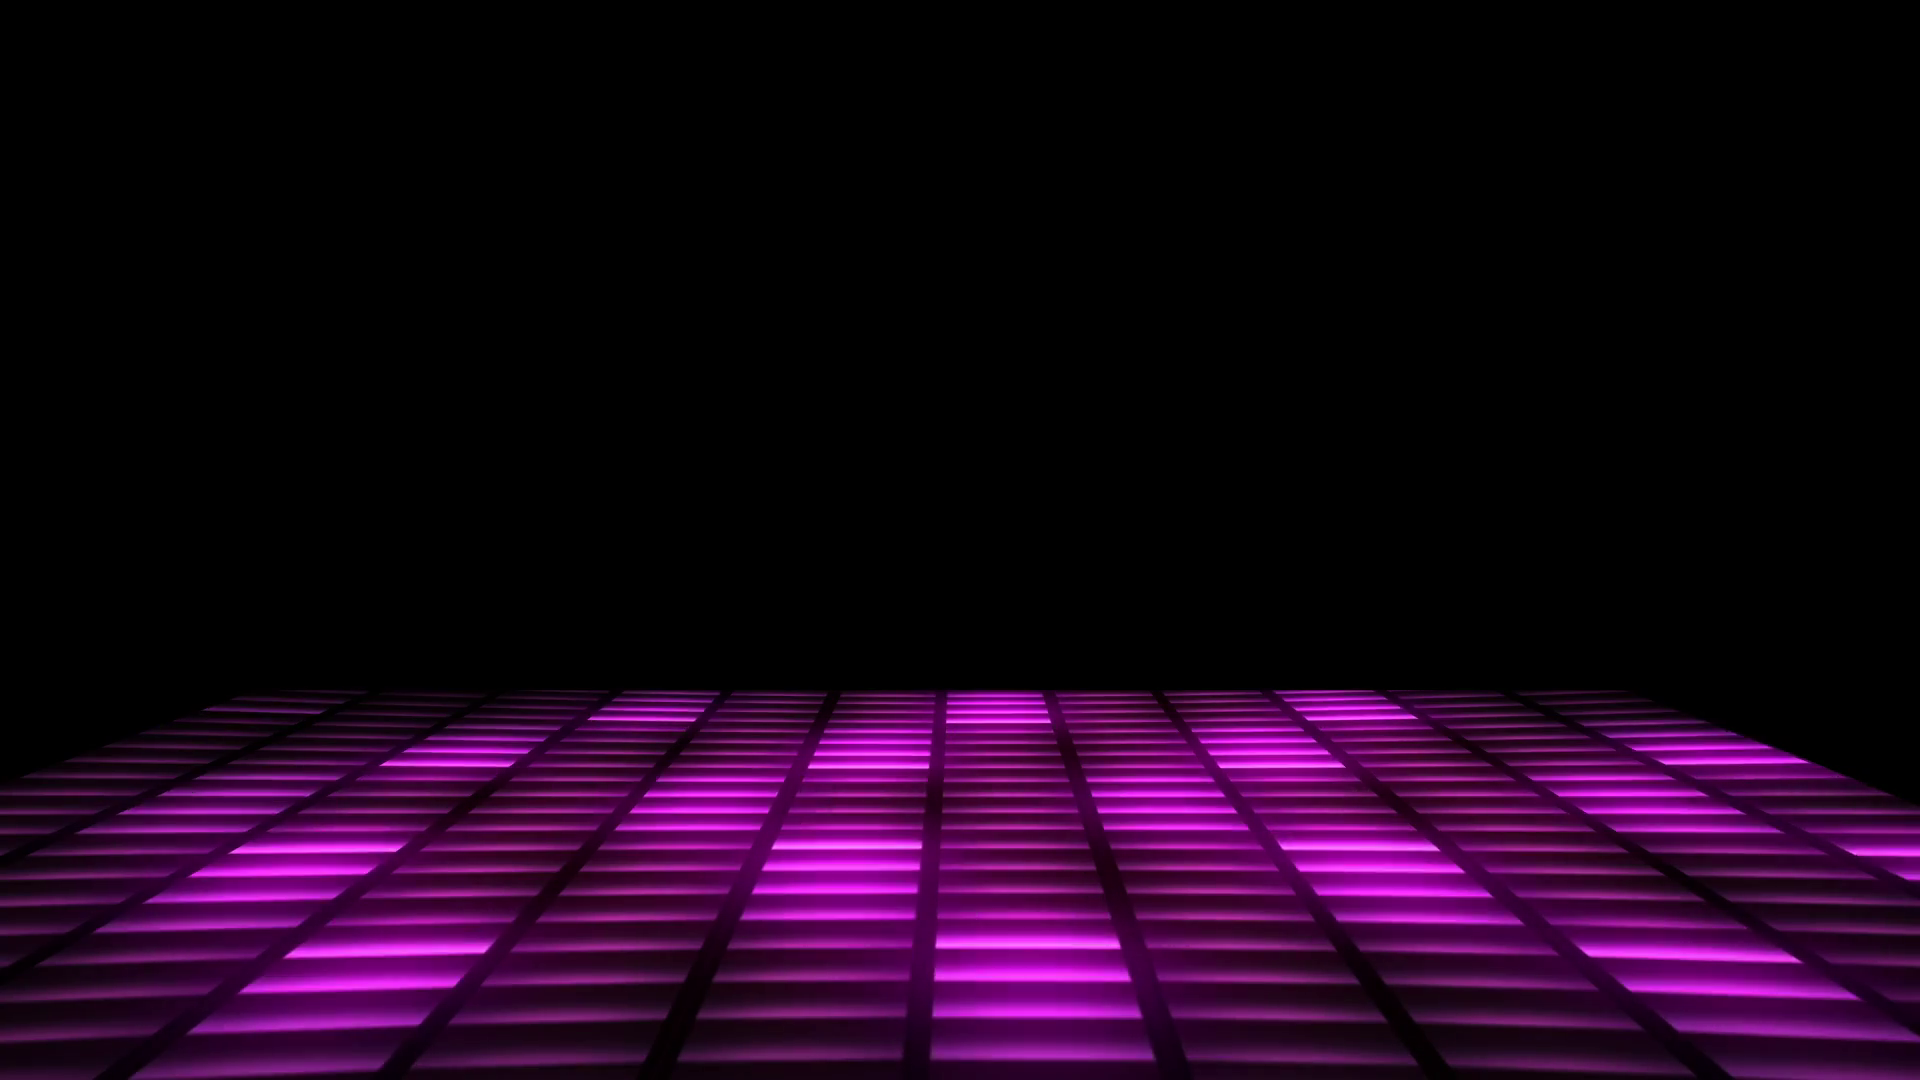
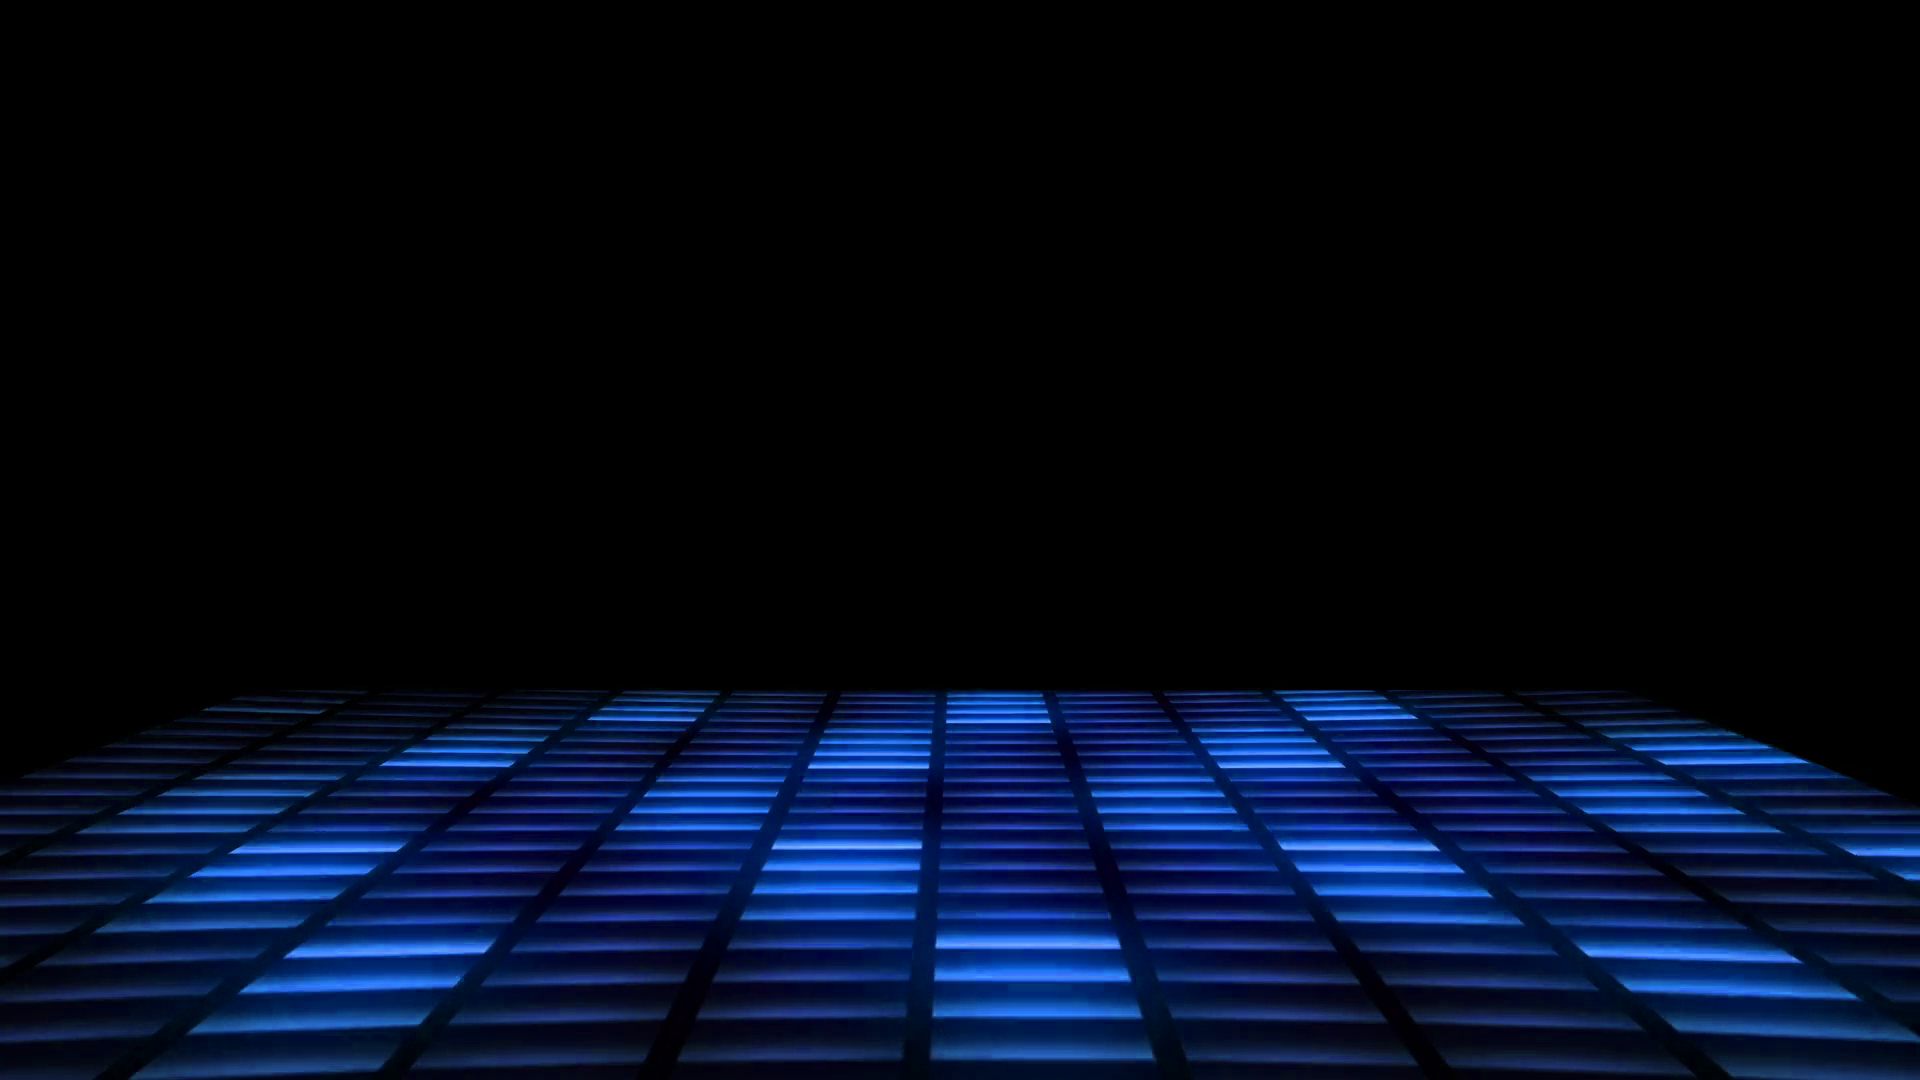
BT7

Changed region(s): [[0.0, 0.6417, 1.0, 1.0]]

diff --git a/BT7/index.html b/BT7/index.html
@@ -10,7 +10,7 @@
 	<body>
 		<audio id="hoveraudio" src="music/hover.mp3" type="audio/mpeg"></audio>
 		<audio id="clickaudio" src="music/click.mp3" type="audio/mpeg"></audio>
-
+		<audio autoplay loop id="audio" autoplay src="music/background.mp3" type="audio/mp3"/></audio>
 		<script>
 			function playSound(hoveraudio) {
 				var audio1=document.getElementById(hoveraudio);
@@ -30,39 +30,40 @@
 		</script>
 
 		<div id="body">
-			<div id="header">
-				<div id="logo">
-					<audio autoplay loop id="audio" autoplay src="music/background.mp3" type="audio/mp3"/>
-					</audio>
-					<img class="cursor" onmouseenter="playSound('hoveraudio')" onmouseout="stopSound('hoveraudio')" onclick="play('clickaudio')" src="img/logo.png" alt="logo" title="Click me to play/pause music!!!" id="playpause"/>
-					<script>
-						document.getElementById("playpause").onclick = function() {
-					    var audio = document.getElementById("audio");
-					    if (audio.paused) audio.play();
-					    else audio.pause();
-					};
-					</script>
-				</div>
-				<div id="menu">
-					<a href="index.html" id="active" onmouseenter="playSound('hoveraudio')" onmouseout="stopSound('hoveraudio')" onclick="play('clickaudio')">Home</a>
-					<a href="about.html" onmouseenter="playSound('hoveraudio')" onmouseout="stopSound('hoveraudio')" onclick="play('clickaudio')">About</a>
-					<a class="cursor" id="playpause2" onmouseenter="playSound('hoveraudio')" onmouseout="stopSound('hoveraudio')" onclick="play('clickaudio')">♫</a>
-					<script>
-						document.getElementById("playpause2").onclick = function() {
-					    var audio = document.getElementById("audio");
-					    if (audio.paused) audio.play();
-					    else audio.pause();
-					};
-					</script>
+			<div id="bannercontent">
+				<div id="banner">
+					<img src="img/banner.png" alt="Banner" title="Banner">
 				</div>
 			</div>
+				
 			<div id="content">
-				<div id="bannercontent">
-					<div id="banner">
-					<img src="img/banner.jpg" alt="Banner" title="Banner">
+				<div id="menu">
+					<div id="logo">
+						<img class="cursor" onmouseenter="playSound('hoveraudio')" onmouseout="stopSound('hoveraudio')" onclick="play('clickaudio')" src="img/logo.png" alt="logo" title="Click me to play/pause music!!!" id="playpause"/>
+						<script>
+							document.getElementById("playpause").onclick = function() {
+						    var audio = document.getElementById("audio");
+						    if (audio.paused) audio.play();
+						    else audio.pause();
+						};
+						</script>
 					</div>
-				</div>
+					<div id="menucontent">
+						<a href="index.html" id="active" onmouseenter="playSound('hoveraudio')" onmouseout="stopSound('hoveraudio')" onclick="play('clickaudio')">Home</a>
+						<a href="about.html" onmouseenter="playSound('hoveraudio')" onmouseout="stopSound('hoveraudio')" onclick="play('clickaudio')">About</a>
+						<a class="cursor" id="playpause2" onmouseenter="playSound('hoveraudio')" onmouseout="stopSound('hoveraudio')" onclick="play('clickaudio')">♫</a>
+						<script>
+							document.getElementById("playpause2").onclick = function() {
+						    var audio = document.getElementById("audio");
+						    if (audio.paused) audio.play();
+						    else audio.pause();
+						};
+						</script>
+					</div>
 
+
+				</div>
+				
 				<div id="imagecontent">
 					<div class="image">
 					<img src="img/1.png" alt="Akira" title="Akira Kurusu" onmouseenter="playSound('hoveraudio')" onmouseout="stopSound('hoveraudio')" onclick="play('clickaudio')">

diff --git a/BT7/css/style.css b/BT7/css/style.css
@@ -2,39 +2,53 @@
     box-sizing: border-box;
 }
 
-html{
-	border: 5px solid rgb(242, 242, 242);
-}
-
 body{
-	background-color: rgb(12, 12, 12);
+	background-color: rgb(13, 120, 222);
 	margin: 0;
-	padding: 0;
-	background-image: url("../img/background.png");
+	background-image: url("../img/background.jpg");
 	font-size: 14px;
 	font-family: Arial, Helvetica, sans-serif;
 }
 
-#content{
-			width: 100%;
+#bannercontent{
+				background-color: rgb(2, 54, 88);
+				border: 5px solid rgb(241, 249, 250);
+}
+
+#banner{
+		max-width: 1000px;
+		margin: auto;
+}
+
+#banner img{
+			width: 75%;
+			display: block;
 			margin: auto;
-		}
-
-#imagecontent, #bannercontent, #logo, #menu{
-	max-width: 1000px;
-	margin: auto;
 }
 
-#header{
-		background-color: rgb(12, 12, 12);
-		height: 150px;
-		width: 100%;
-		background-image: url("../img/light2.png");
-		background-size: auto;
-		background-repeat: no-repeat;
-		background-position: center top;
-		border: 5px solid rgb(242, 242, 242);
+#content{
+		max-width: 1000px;
+		margin: auto;
+		position: relative;
 }
+
+#menu{
+		background-color: rgb(13, 120, 222);
+		left: 0;
+		width: 20%;
+		height: 40vh;
+		position: absolute;
+		border: 5px solid rgb(241, 249, 250);
+		right: 0;
+}
+
+#imagecontent{
+			position: absolute;
+			right: 0;
+			width: 80%;
+}
+
+
 
 #logo:hover{
 			filter: brightness(150%);
@@ -44,53 +58,65 @@ body{
 			filter: brightness(200%);
 }
 
+#logo #menucontent{
+	position: relative;
+}
+
 #logo img{
 		max-width: 110px;
-		float: left;
-		margin-top: 20px;
-		margin-bottom: 20px;
+		position: absolute;
+		left: 0;
+		right: 0;
+		margin-left: auto;
+		margin-right: auto;
 }
 
-#banner img{
-			max-width: 100%;
-			float: left;
-			border: 5px solid rgb(242, 242, 242);
+#menucontent{
+		position: absolute;
+		top: 110px;
+		left: 0;
+		right: 0;
+		margin-left: auto;
+		margin-right: auto;
 }
 
-#menu a{
+#menucontent a{
+		display: block;
 		font-size: 1.5em;
 		text-decoration: none;
-		float: left;
-		margin-top: 50px;
-		margin-bottom: auto;
-		margin-left: 2vw;
-		color: rgb(242, 242, 242);
-		border: 5px solid rgb(242, 242, 242);
-		background-color: rgb(12, 12, 12);
+		color: rgb(2, 54, 88);
+		border: 5px solid rgb(241, 249, 250);
+		background-color: rgb(13, 120, 222);
 		padding-left: 10px;
 		padding-right: 10px;
 		padding-top: 5px;
 		padding-bottom: 5px;
 		filter: brightness(100%);
+		text-align: center;
 }
 
-#menu a:hover{
-			filter: brightness(125%)
+#menucontent a:hover{
+			background-color: rgb(2, 54, 88);
+			color: rgb(241, 249, 250);
 
 }
 
-#menu a:active{
+#menucontent a:active{
+			background-color: rgb(2, 54, 88);
+			color: rgb(241, 249, 250);
 			filter: brightness(150%);
 }
 
-#menu a#active{
-	filter: brightness(150%);
+#menucontent a#active{
+			background-color: rgb(2, 54, 88);
+			color: rgb(241, 249, 250);
+			filter: brightness(150%);
 }
 .image{
 		float: left;
 		height: 600px;
-		width: 33.33%;
-		border: 5px solid rgb(242, 242, 242);
+		width: 50%;
+		border: 5px solid rgb(241, 249, 250);
 		background-color: rgb(12, 12, 12);
 		background-image: url("../img/light1.png"), url("../img/background2.png");
 		background-repeat: no-repeat, no-repeat;
